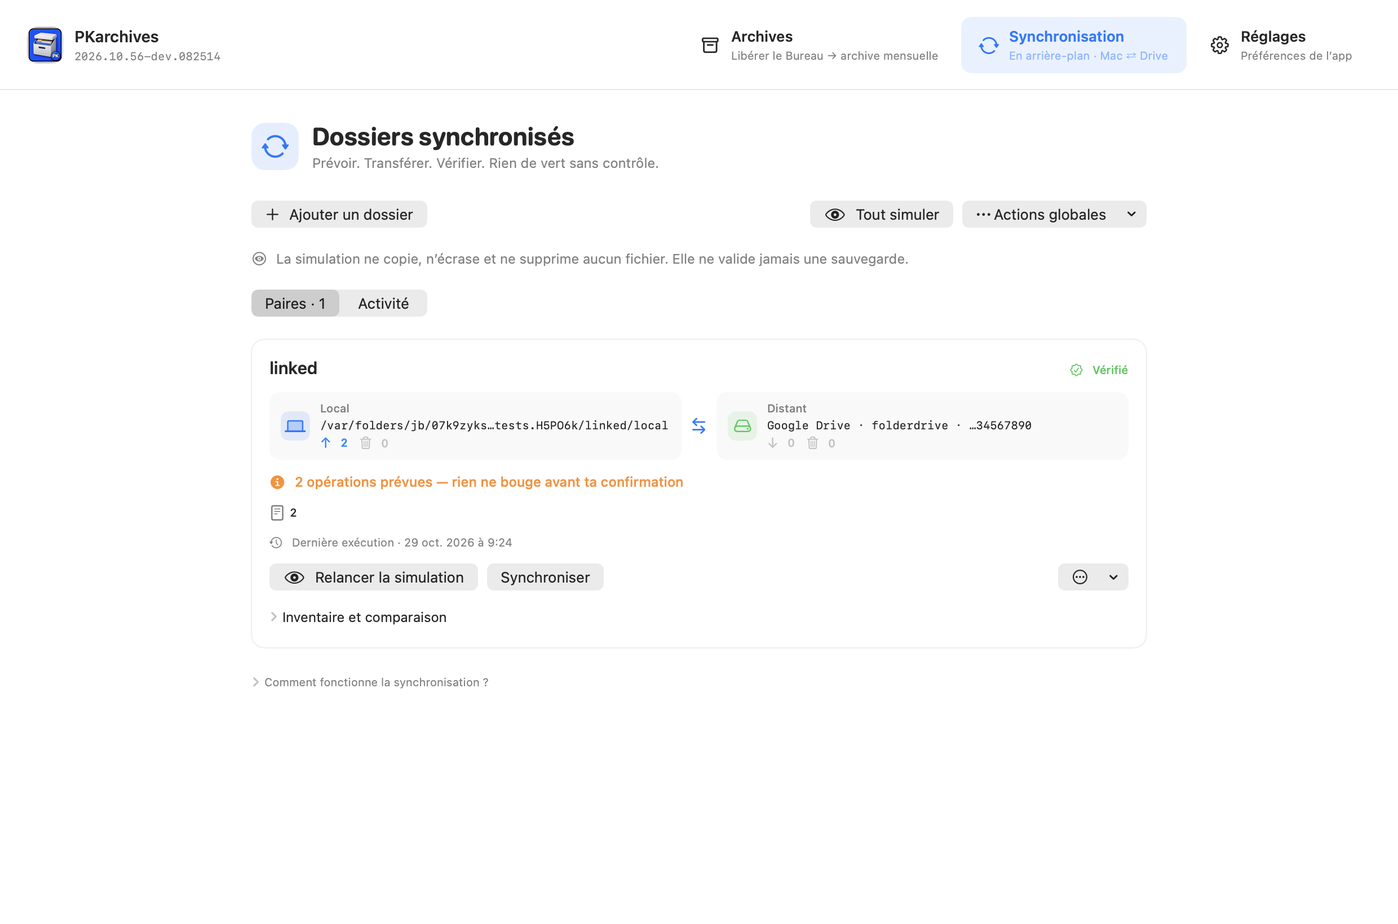
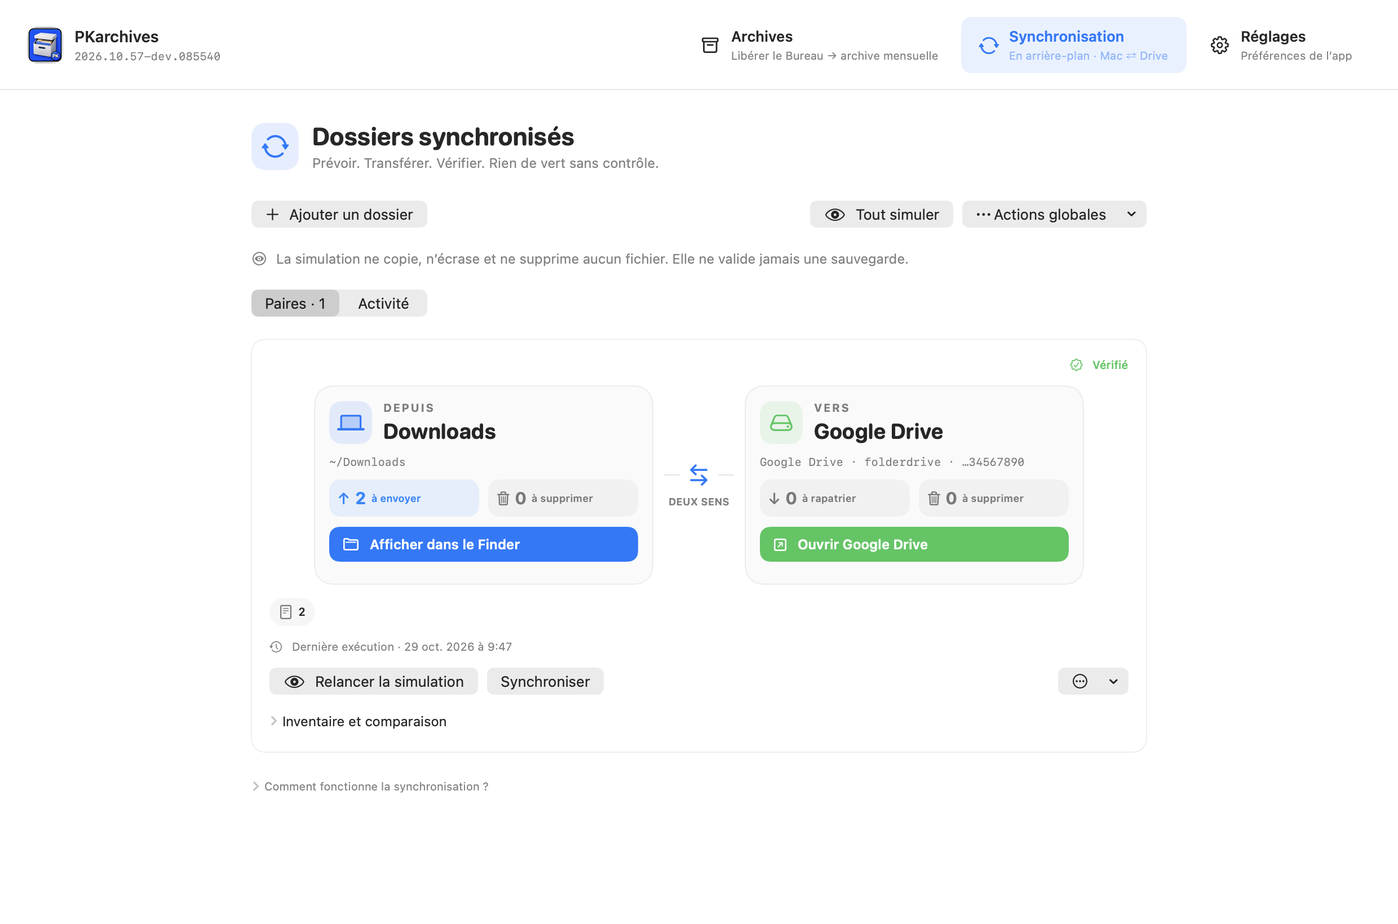
MAJ: refonte visuelle des cartes de synchronisation

diff --git a/src/macos/PKSync.swift b/src/macos/PKSync.swift
@@ -36,6 +36,17 @@ private let syncStrings: [String: [String]] = [
     "file": ["fichier", "file", "archivo", "Datei"],
     "localSide": ["Local", "Local", "Local", "Lokal"],
     "remoteSide": ["Distant", "Remote", "Remoto", "Entfernt"],
+    "fromSide": ["Depuis", "From", "Desde", "Von"],
+    "toSide": ["Vers", "To", "Hacia", "Nach"],
+    "driveTitle": ["Google Drive", "Google Drive", "Google Drive", "Google Drive"],
+    "flowBoth": ["Deux sens", "Two-way", "Dos sentidos", "Beidseitig"],
+    "flowToDrive": ["Vers Drive", "To Drive", "A Drive", "Zu Drive"],
+    "flowToMac": ["Vers le Mac", "To Mac", "Al Mac", "Zum Mac"],
+    "sendShort": ["à envoyer", "to send", "por enviar", "zu senden"],
+    "downloadShort": ["à rapatrier", "to bring back", "por descargar", "herunterzuladen"],
+    "deleteShort": ["à supprimer", "to delete", "por eliminar", "zu löschen"],
+    "previewCounters": ["Simulez pour afficher les opérations prévues", "Preview to see planned operations", "Simula para ver las operaciones previstas", "Vorschau starten, um geplante Vorgänge zu sehen"],
+    "conflictsShort": ["conflits", "conflicts", "conflictos", "Konflikte"],
     "gap": ["Écart", "Gap", "Diferencia", "Differenz"],
     "aligned": ["Alignés", "Aligned", "Alineados", "Abgeglichen"],
     "gapNote": ["Estimation sur la taille cumulée des écarts, à 4 Mo/s de référence. Les fichiers modifiés des deux côtés et les exclusions ne sont pas comptés ; la simulation liste les opérations exactes.", "Estimate from the cumulative size gap at a 4 MB/s reference. Files modified on both sides and exclusions are not counted; a preview lists the exact operations.", "Estimación sobre el tamaño acumulado de la diferencia a 4 MB/s de referencia. Los archivos modificados en ambos lados y las exclusiones no se cuentan; la simulación lista las operaciones exactas.", "Schätzung anhand der kumulativen Differenzgröße bei 4 MB/s Referenz. Beidseitig geänderte Dateien und Ausnahmen zählen nicht; die Vorschau listet die genauen Vorgänge."],
@@ -180,54 +191,159 @@ func syncText(_ key: String) -> String {
 
 func syncFileCount(_ count: Int) -> String { "\(count) \(syncText(count == 1 ? "file" : "files"))" }
 
-/// Source and destination as two real endpoints, each showing its own pending
-/// operations from the latest preview: uploads and local deletions on the Mac,
-/// downloads and remote deletions on Drive.
+/// Large source/destination panels inspired by the archive endpoint cards.
+/// Each side shows its own transfer and deletion counts from the latest preview.
 struct SyncPairLocations: View {
     let pair: SyncPair
     var plan: PreviewPlan?
     var body: some View {
-        let push = (plan?.pushNew.count ?? 0) + (plan?.pushModified.count ?? 0)
-        let pull = (plan?.pullNew.count ?? 0) + (plan?.pullModified.count ?? 0)
-        // A completed preview with no work is still meaningful: show explicit zeroes.
-        let showOps = plan != nil
-        return HStack(spacing: 8) {
-            endpoint(syncText("localSide"), path: shortPath(pair.localPath), symbol: "laptopcomputer", tint: .accentColor,
-                     transferIcon: "arrow.up", transfers: push, deletions: plan?.deleteLocal.count ?? 0,
-                     transferHelp: syncText("toPush"), deleteHelp: syncText("list.deleteLocal"), showOps: showOps)
-            Image(systemName: pair.direction == .bidirectional ? "arrow.left.arrow.right" : pair.direction == .push ? "arrow.right" : "arrow.left")
-                .font(.system(size: 12, weight: .semibold)).foregroundStyle(Color.accentColor)
-                .accessibilityLabel(pair.direction.label).help(pair.direction.label)
-            endpoint(syncText("remoteSide"), path: pair.destinationDescription, symbol: "externaldrive", tint: .green,
-                     transferIcon: "arrow.down", transfers: pull, deletions: plan?.deleteRemote.count ?? 0,
-                     transferHelp: syncText("toPull"), deleteHelp: syncText("list.deleteRemote"), showOps: showOps)
+        ViewThatFits(in: .horizontal) {
+            HStack(spacing: 10) {
+                localEndpoint.frame(width: 300)
+                directionBridge(vertical: false).frame(width: 62)
+                remoteEndpoint.frame(width: 300)
+            }.frame(maxWidth: .infinity, alignment: .center)
+            VStack(spacing: 8) {
+                localEndpoint
+                directionBridge(vertical: true)
+                remoteEndpoint
+            }
         }
     }
-    private func endpoint(_ title: String, path: String, symbol: String, tint: Color,
-                          transferIcon: String, transfers: Int, deletions: Int,
-                          transferHelp: String, deleteHelp: String, showOps: Bool) -> some View {
-        HStack(spacing: 9) {
-            Image(systemName: symbol).font(.system(size: 13, weight: .medium)).foregroundStyle(tint)
-                .frame(width: 26, height: 26).background(tint.opacity(0.12), in: RoundedRectangle(cornerRadius: 7))
-                .accessibilityHidden(true)
-            VStack(alignment: .leading, spacing: 2) {
-                Text(title).font(.caption2.weight(.medium)).foregroundStyle(.secondary)
-                Text(path).font(.system(.caption, design: .monospaced)).lineLimit(1).truncationMode(.middle)
-                    .help(path).textSelection(.enabled)
-                if showOps {
-                    HStack(spacing: 10) {
-                        Label("\(transfers)", systemImage: transferIcon)
-                            .foregroundStyle(transfers > 0 ? Color.blue : Color.secondary.opacity(0.45))
-                            .help(transferHelp).accessibilityLabel("\(transfers) \(transferHelp)")
-                        Label("\(deletions)", systemImage: "trash")
-                            .foregroundStyle(deletions > 0 ? Color.red : Color.secondary.opacity(0.45))
-                            .help(deleteHelp).accessibilityLabel("\(deletions) \(deleteHelp)")
-                    }.font(.caption2.weight(.semibold)).monospacedDigit()
+
+    private var localEndpoint: some View {
+        let uploads = (plan?.pushNew.count ?? 0) + (plan?.pushModified.count ?? 0)
+        return endpoint(
+            eyebrow: syncText("fromSide"), title: pair.name.isEmpty ? localFolderName : pair.name,
+            path: shortPath(pair.localPath), symbol: "laptopcomputer", tint: .accentColor,
+            transferIcon: "arrow.up", transferCount: uploads, transferLabel: syncText("sendShort"),
+            deletionCount: plan?.deleteLocal.count ?? 0, showOps: plan != nil,
+            actionTitle: workspaceText("showFolder"), actionIcon: "folder",
+            action: { NSWorkspace.shared.selectFile(nil, inFileViewerRootedAtPath: pair.localPath) }
+        )
+    }
+
+    private var remoteEndpoint: some View {
+        let downloads = (plan?.pullNew.count ?? 0) + (plan?.pullModified.count ?? 0)
+        return endpoint(
+            eyebrow: syncText("toSide"), title: remoteFolderName, path: remotePath,
+            symbol: "externaldrive", tint: .green,
+            transferIcon: "arrow.down", transferCount: downloads, transferLabel: syncText("downloadShort"),
+            deletionCount: plan?.deleteRemote.count ?? 0, showOps: plan != nil,
+            actionTitle: syncText("openDrive"), actionIcon: "arrow.up.right.square",
+            action: openDrive
+        )
+    }
+
+    private var localFolderName: String {
+        let name = URL(fileURLWithPath: pair.localPath).lastPathComponent
+        return name.isEmpty || name == "/" ? pair.name : name
+    }
+
+    private var remoteFolderName: String {
+        let name = (pair.drivePath as NSString).lastPathComponent
+        return name.isEmpty ? syncText("driveTitle") : name
+    }
+
+    private var remotePath: String {
+        pair.drivePath.isEmpty ? pair.destinationDescription : "\(pair.remote):\(pair.drivePath)"
+    }
+
+    private func endpoint(eyebrow: String, title: String, path: String, symbol: String, tint: Color,
+                          transferIcon: String, transferCount: Int, transferLabel: String,
+                          deletionCount: Int, showOps: Bool, actionTitle: String, actionIcon: String,
+                          action: @escaping () -> Void) -> some View {
+        VStack(alignment: .leading, spacing: 9) {
+            HStack(spacing: 10) {
+                Image(systemName: symbol).font(.system(size: 17, weight: .medium)).foregroundStyle(tint)
+                    .frame(width: 38, height: 38)
+                    .background(tint.opacity(0.12), in: RoundedRectangle(cornerRadius: 11))
+                    .accessibilityHidden(true)
+                VStack(alignment: .leading, spacing: 3) {
+                    Text(eyebrow.uppercased()).font(.system(size: 10, weight: .bold)).tracking(1.2).foregroundStyle(.secondary)
+                    Text(title).font(.system(size: 19, weight: .bold, design: .rounded))
+                        .lineLimit(1).truncationMode(.middle).help(title)
                 }
+                Spacer(minLength: 0)
             }
-        }.padding(.horizontal, 10).padding(.vertical, 8)
+            Text(path).font(.system(.caption, design: .monospaced)).foregroundStyle(.secondary)
+                .lineLimit(1).truncationMode(.middle).help(path).textSelection(.enabled)
+            if showOps {
+                HStack(spacing: 8) {
+                    operationBadge(transferCount, title: transferLabel, symbol: transferIcon, tint: .blue)
+                    operationBadge(deletionCount, title: syncText("deleteShort"), symbol: "trash", tint: .red)
+                }
+            } else {
+                Label(syncText("previewCounters"), systemImage: "eye")
+                    .font(.caption).foregroundStyle(.secondary).lineLimit(1).minimumScaleFactor(0.8)
+                    .frame(maxWidth: .infinity, alignment: .leading)
+                    .padding(.vertical, 7)
+            }
+            Button(action: action) {
+                Label(actionTitle, systemImage: actionIcon)
+                    .font(.system(size: 12, weight: .semibold))
+                    .foregroundStyle(.white)
+                    .padding(.horizontal, 11).padding(.vertical, 8)
+                    .frame(maxWidth: .infinity, alignment: .leading)
+                    .background(tint, in: RoundedRectangle(cornerRadius: 9))
+            }.buttonStyle(.plain).controlSize(.small)
+        }
+        .padding(13)
+        .frame(maxWidth: .infinity, minHeight: 176, alignment: .topLeading)
+        .background(Color.primary.opacity(0.025), in: RoundedRectangle(cornerRadius: 16))
+        .overlay(RoundedRectangle(cornerRadius: 16).stroke(Color.primary.opacity(0.08), lineWidth: 1))
+    }
+
+    private func operationBadge(_ count: Int, title: String, symbol: String, tint: Color) -> some View {
+        let color = count > 0 ? tint : Color.secondary
+        return HStack(spacing: 4) {
+            Image(systemName: symbol).font(.system(size: 11, weight: .bold))
+            Text("\(count)").font(.system(size: 15, weight: .bold, design: .rounded)).monospacedDigit()
+            Text(title).font(.system(size: 9, weight: .semibold)).lineLimit(1).minimumScaleFactor(0.72)
+            Spacer(minLength: 0)
+        }
+        .foregroundStyle(color)
+        .padding(.horizontal, 7).padding(.vertical, 7)
         .frame(maxWidth: .infinity, alignment: .leading)
-        .background(Color.primary.opacity(0.03), in: RoundedRectangle(cornerRadius: 9))
+        .background(color.opacity(count > 0 ? 0.11 : 0.07), in: RoundedRectangle(cornerRadius: 10))
+        .accessibilityElement(children: .ignore)
+        .accessibilityLabel("\(count) \(title)")
+    }
+
+    @ViewBuilder private func directionBridge(vertical: Bool) -> some View {
+        let label: String = switch pair.direction {
+        case .bidirectional: syncText("flowBoth")
+        case .push: syncText("flowToDrive")
+        case .pull: syncText("flowToMac")
+        }
+        let symbol: String = vertical
+            ? (pair.direction == .bidirectional ? "arrow.up.arrow.down" : pair.direction == .push ? "arrow.down" : "arrow.up")
+            : (pair.direction == .bidirectional ? "arrow.left.arrow.right" : pair.direction == .push ? "arrow.right" : "arrow.left")
+        if vertical {
+            HStack(spacing: 8) {
+                Capsule().fill(Color.primary.opacity(0.12)).frame(width: 24, height: 1)
+                Image(systemName: symbol).font(.system(size: 15, weight: .semibold)).foregroundStyle(Color.accentColor)
+                Capsule().fill(Color.primary.opacity(0.12)).frame(width: 24, height: 1)
+                Text(label.uppercased()).font(.system(size: 9, weight: .bold))
+                    .foregroundStyle(.secondary).lineLimit(1).minimumScaleFactor(0.7)
+            }.frame(maxWidth: .infinity).padding(.vertical, 2)
+        } else {
+            VStack(spacing: 7) {
+                HStack(spacing: 7) {
+                    Capsule().fill(Color.primary.opacity(0.12)).frame(height: 1)
+                    Image(systemName: symbol).font(.system(size: 16, weight: .semibold)).foregroundStyle(Color.accentColor)
+                    Capsule().fill(Color.primary.opacity(0.12)).frame(height: 1)
+                }
+                Text(label.uppercased()).font(.system(size: 9, weight: .bold))
+                    .foregroundStyle(.secondary).lineLimit(1).minimumScaleFactor(0.7)
+            }
+        }
+    }
+
+    private func openDrive() {
+        let url = pair.driveFolderID.flatMap { URL(string: "https://drive.google.com/drive/folders/\($0)") }
+            ?? URL(string: "https://drive.google.com/drive/my-drive")!
+        NSWorkspace.shared.open(url)
     }
 }
 
@@ -427,14 +543,13 @@ struct SyncSectionView: View {
         let plan = engine.previewRun(for: pair.id)?.plan
         return VStack(alignment: .leading, spacing: 12) {
             HStack(alignment: .firstTextBaseline, spacing: 8) {
-                Text(pair.name).font(.system(size: 15, weight: .semibold))
                 if pair.previewOnly { previewBadge(pair) }
-                Spacer(minLength: 12)
+                Spacer(minLength: 0)
                 status(state)
             }
             SyncPairLocations(pair: pair, plan: plan)
             if let plan {
-                verdict(plan)
+                deletionWarning(plan)
                 typeRow(plan)
             }
             if running {
@@ -538,7 +653,6 @@ struct SyncSectionView: View {
                 Toggle(syncText("enabled"), isOn: enableBinding(pair))
                 Button(syncText("edit")) { editing = pair }
                 if pair.direction.usesBisync { Button(syncText("needsResync")) { merging = pair } }
-                Button(workspaceText("showFolder")) { NSWorkspace.shared.selectFile(nil, inFileViewerRootedAtPath: pair.localPath) }
                 Divider()
                 Button(syncText("remove"), role: .destructive) { removing = pair }
             } label: { Image(systemName: "ellipsis.circle") }
@@ -556,7 +670,6 @@ struct SyncSectionView: View {
         }.disabled(engine.busy || !pair.enabled || engine.storageError != nil || engine.cooldownUntil(for: pair) != nil)
         Toggle(syncText("enabled"), isOn: enableBinding(pair)).disabled(engine.busy || engine.storageError != nil)
         Button(syncText("edit")) { editing = pair }.disabled(engine.busy || engine.storageError != nil)
-        Button(workspaceText("showFolder")) { NSWorkspace.shared.selectFile(nil, inFileViewerRootedAtPath: pair.localPath) }
         Divider()
         Button(syncText("remove"), role: .destructive) { removing = pair }.disabled(engine.busy || engine.storageError != nil)
     }
@@ -622,19 +735,26 @@ struct SyncSectionView: View {
         }
     }
 
-    /// A single quiet row of file-type pictos with counts.
+    /// File-type pictos use soft capsules so they read as a deliberate summary, not loose glyphs.
     @ViewBuilder private func typeRow(_ plan: PreviewPlan) -> some View {
         let types = Self.typeComposition(plan)
-        if !types.isEmpty {
-            HStack(spacing: 12) {
+        if !types.isEmpty || !plan.conflicts.isEmpty {
+            HStack(spacing: 7) {
                 ForEach(types.prefix(5)) { type in
                     HStack(spacing: 4) {
-                        Image(systemName: type.symbol).font(.system(size: 13, weight: .medium)).foregroundStyle(type.tint)
-                        Text("\(type.count)").font(.caption.weight(.medium)).monospacedDigit()
-                    }
+                        Image(systemName: type.symbol).font(.system(size: 12, weight: .medium)).foregroundStyle(type.tint)
+                        Text("\(type.count)").font(.caption2.weight(.semibold)).monospacedDigit()
+                    }.padding(.horizontal, 8).padding(.vertical, 5)
+                        .background(Color.primary.opacity(0.04), in: Capsule())
                 }
                 if types.count > 5 {
-                    Text("+\(types.count - 5)").font(.caption2).foregroundStyle(.secondary)
+                    Text("+\(types.count - 5)").font(.caption2.weight(.medium)).foregroundStyle(.secondary)
+                }
+                if !plan.conflicts.isEmpty {
+                    Label("\(plan.conflicts.count) \(syncText("conflictsShort"))", systemImage: "bolt.fill")
+                        .font(.caption2.weight(.semibold)).foregroundStyle(.orange)
+                        .padding(.horizontal, 8).padding(.vertical, 5)
+                        .background(Color.orange.opacity(0.09), in: Capsule())
                 }
                 Spacer(minLength: 0)
             }
@@ -672,20 +792,15 @@ struct SyncSectionView: View {
             }
         }
     }
-    @ViewBuilder private func verdict(_ plan: PreviewPlan) -> some View {
+    @ViewBuilder private func deletionWarning(_ plan: PreviewPlan) -> some View {
         let deletions = plan.deleteRemote.count + plan.deleteLocal.count
-        if plan.totalOps == 0 {
-            Label(syncText("alignedVerdict"), systemImage: "checkmark.seal.fill")
-                .font(.callout.weight(.medium)).foregroundStyle(.green)
-        } else if deletions > 0 {
-            VStack(alignment: .leading, spacing: 3) {
-                Label(String(format: syncText("deleteVerdict"), "\(deletions)"), systemImage: "exclamationmark.triangle.fill")
-                    .font(.callout.weight(.medium)).foregroundStyle(.red)
-                Text(syncText("deleteVerdictNote")).font(.caption).foregroundStyle(.secondary).fixedSize(horizontal: false, vertical: true)
-            }
-        } else {
-            Label(String(format: syncText("opsVerdict"), "\(plan.totalOps)"), systemImage: "info.circle.fill")
-                .font(.callout.weight(.medium)).foregroundStyle(.orange)
+        if deletions > 0 {
+            Label(syncText("deleteVerdictNote"), systemImage: "exclamationmark.triangle.fill")
+                .font(.caption).foregroundStyle(Color.orange).lineLimit(2)
+                .fixedSize(horizontal: false, vertical: true)
+                .padding(.horizontal, 11).padding(.vertical, 8)
+                .frame(maxWidth: .infinity, alignment: .leading)
+                .background(Color.orange.opacity(0.08), in: RoundedRectangle(cornerRadius: 10))
         }
     }
     /// Real file/byte counts per side on one line, gap highlighted, honest ETA.

diff --git a/README.md b/README.md
@@ -85,7 +85,7 @@ Le nouveau mode est disponible dans les sources et la build Dev, **pas encore da
 
 **Réglages → Général** : lancement à l’ouverture de session (en arrière-plan, avec approbation macOS si nécessaire) et affichage de barre des menus : **Débit**, **Fichiers restants** ou **Icône seule**. Les chiffres proviennent des statistiques rclone de l’exécution en cours, actualisées environ toutes les 5 s ; les paires encore en attente ne sont pas comptées et le total peut évoluer pendant l’analyse. Analyse, simulation et vérification ont leur propre état ; au repos, seule l’icône reste affichée. L’archivage affiche le nombre d’éléments restants.
 
-**Paires de synchronisation** : chaque carte affiche le nom et le statut, puis deux boîtes Local ⇄ Distant. Après une simulation, les compteurs sont intégrés à chaque côté : ↑ à envoyer et 🗑 à supprimer sur le Mac ; ↓ à rapatrier et 🗑 à supprimer sur Drive. Le verdict et les pictos par type de fichier restent visibles ; l’inventaire et le détail fichier par fichier se déplient à la demande. L’activation et les actions secondaires sont dans **⋯** et le clic droit.
+**Paires de synchronisation** : deux grands panneaux **Depuis ⇄ Vers** montrent les emplacements, chemins et compteurs lisibles après simulation : ↑ à envoyer / 🗑 à supprimer sur le Mac, ↓ à rapatrier / 🗑 à supprimer sur Drive. Les accès Finder et Google Drive sont directs ; les pictos de fichiers, l’inventaire et le détail restent disponibles sans répéter un bandeau d’alerte pour les transferts ordinaires.
 
 **Réglages → Synchronisation** : pause globale de toutes les paires (1 h), mode par défaut « Simulation uniquement » pour les nouvelles paires, et liste des paires avec activation, mode simulation et formulaire complet. Ces réglages pilotent le moteur de synchronisation ; la configuration d’archivage reste dans sa propre section.
 

diff --git a/PKSTACK.md b/PKSTACK.md
@@ -13,7 +13,7 @@ quand une nouvelle skill intervient sur le projet.
 | `fixing-accessibility` | Corrections accessibilité | `aria-label` des boutons et contrôles icône seule ; sémantique du menu 📦 (`role="menu"`, `aria-expanded`, fermeture au clic extérieur) ; navigation clavier et focus visibles ; contrastes |
 | `sparkle-github-updates` | Mises à jour automatiques | `Sparkle.framework` embarqué par `scripts/build.sh` ; feed Stable/Dev ; comparaison du `CFBundleVersion` sans proposer de build plus ancienne ; vérification EdDSA et identification du bundle versionné par version + bundle ID avant installation manuelle |
 | `pk-settings-shell` | À propos et crédits | Rubrique localisée « Crédits & inspirations » dans About ; technologies, dépendances et références sont distinctes, vérifiées depuis le code et liées |
-| `app-presence-sync` | Documentation produit | README FR/EN synchronisés pour le mode Dossiers Dev et ses compteurs par côté ; supports publics inchangés tant que Drive/Stable ne sont pas validés |
+| `app-presence-sync` | Documentation produit | README FR/EN synchronisés pour le mode Dossiers Dev et ses panneaux Local ⇄ Drive ; supports publics inchangés tant que Drive/Stable ne sont pas validés |
 | `macos-build` | Validation native | Build Dev complète locale avec le SDK 26.5 déjà installé (contournement CLT 27 sans macros SwiftUI) |
 | `macos-patterns` / `macos-settings-ui` | Interface et scheduling natifs | Vue SwiftUI Dossiers, sélecteurs natifs, FSEvents et réveil NSWorkspace ; chargement WebKit différé |
 | `plan-fetch-github` | Cadrage du mode Sync | Recherche préalable et plan validé dans la conversation, puis implémentation locale |

diff --git a/README_en.md b/README_en.md
@@ -85,7 +85,7 @@ The new mode is available in the sources and Dev build, **not yet in the Stable 
 
 **Settings → General**: launch at login (in the background, with macOS approval if needed) and menu bar display: **Transfer speed**, **Remaining files** or **Icon only**. Numbers come from the current run’s rclone stats, updated roughly every 5 s; queued pairs are excluded and totals may change during scanning. Scanning, preview and verification have distinct states; only the icon remains when idle. Archiving shows the remaining item count.
 
-**Sync pairs**: each card shows its name and status, followed by two Local ⇄ Remote boxes. After a preview, counters appear inside each side: ↑ to send and 🗑 to delete on the Mac; ↓ to bring back and 🗑 to delete on Drive. The verdict and file-type pictos stay visible; inventory and per-file details expand on demand. Enable and secondary actions are in **⋯** and the context menu.
+**Sync pairs**: two large **From ⇄ To** panels show the locations, paths and readable preview counts: ↑ to send / 🗑 to delete on the Mac, ↓ to bring back / 🗑 to delete on Drive. Finder and Google Drive are one click away; file-type pictos, inventory and per-file details remain available without a redundant warning banner for ordinary transfers.
 
 **Settings → Synchronization**: global pause of all pairs (1 h), default “Preview only” mode for new pairs, and the pair list with enable/preview switches and the full form. These settings drive the sync engine; archiving configuration stays in its own section.
 

diff --git a/CHANGELOG.md b/CHANGELOG.md
@@ -4,7 +4,7 @@
 
 ## TODO — Roadmap
 
-Statut : `2026.10.56` (compteurs de la comparaison intégrés dans chaque côté de la paire)
+Statut : `2026.10.57` (cartes de synchronisation réorganisées en grands panneaux Local ⇄ Drive)
 
 ### Sécurité & Publication GitHub
 - [x] Supprimer les binaire compilé et .app du repo
@@ -18,6 +18,11 @@ Statut : `2026.10.56` (compteurs de la comparaison intégrés dans chaque côté
 - [x] Dashboard SwiftUI et TUI avec statistiques et historique
 - [x] Graphique d'activité des archivages
 - [x] Navigation paramètres/historique dans les deux interfaces
+
+### [2026.10.57] - 2026-10-29
+#### Changed
+- Cartes de paires redessinées d’après la référence : deux grands panneaux « Depuis / Vers », nom et chemin lisibles, liaison directionnelle au centre, compteurs distincts et nommés pour envoi/téléchargement/suppression, accès direct au Finder et à Google Drive ; mise en colonne automatique dans le panneau étroit de la barre des menus.
+- Retrait de la bannière orange redondante pour les transferts ordinaires ; alerte de sécurité conservée lorsqu’une simulation prévoit des suppressions. Pictos de types de fichiers présentés dans des capsules discrètes.
 
 ### [2026.10.56] - 2026-10-29
 #### Changed
